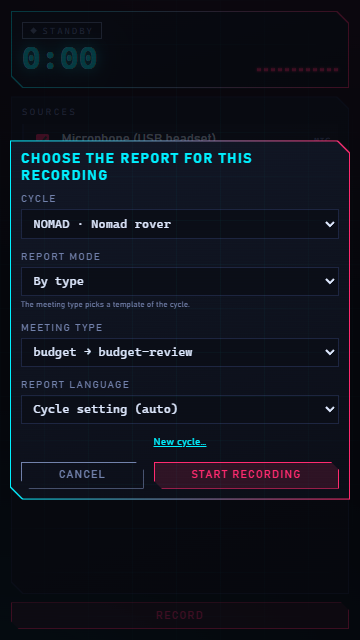
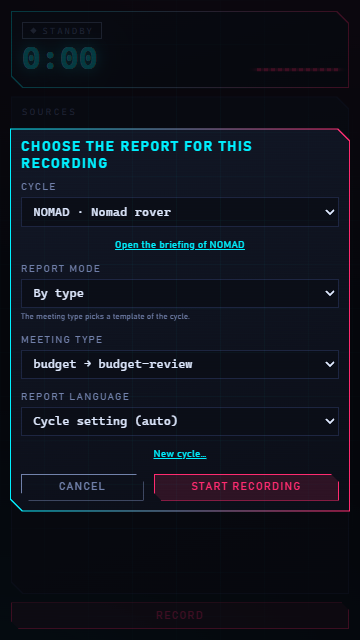
docs: add the briefing screenshot and refresh the report gate one

diff --git a/ui/screenshots/screenshots.spec.ts b/ui/screenshots/screenshots.spec.ts
@@ -103,6 +103,17 @@ test.describe("static screenshots", () => {
     await page.screenshot({ path: path.join(OUT, "cycle-settings.png") });
   });
 
+  // Stage 6. Run only this one with: npx playwright test --project=screenshots -g "briefing"
+  test("briefing", async ({ page }) => {
+    await page.setViewportSize({ width: 1280, height: 1250 });
+    await page.goto("/?view=main&backend=mock&rate=0&page=briefing&cycle=NOMAD");
+    await expect(page.getByRole("region", { name: "Tasks of Alex Demo" })).toBeVisible();
+    await expect(page.locator(".brief-status")).toHaveText(/^State as of 2026-11-13\./);
+    await expect(page.getByRole("button", { name: "Update" })).toBeEnabled();
+    await settle(page);
+    await page.screenshot({ path: path.join(OUT, "briefing.png") });
+  });
+
   test("draft with the source popover", async ({ page }) => {
     // Tall enough that the whole draft is in view and nothing scrolls.
     await page.setViewportSize({ width: 1280, height: 1250 });
